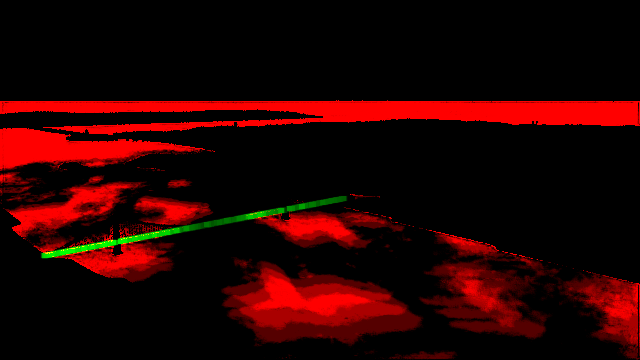
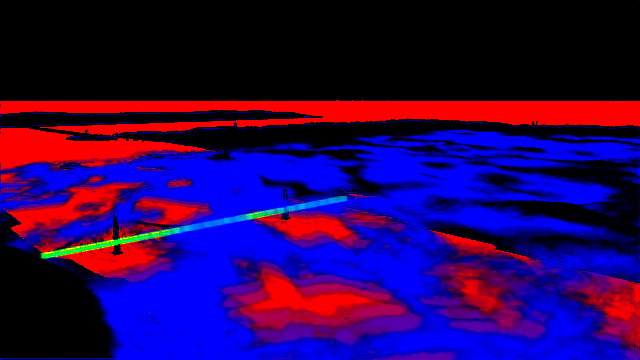
feat(ui): live fog engine, solid header, compact concierge
- liveFog.ts: soft wisps drift west to east over the held opening frame,
  domain-warped noise laid on the fog surface (perspective-correct),
  never repeating, champagne highlights and blue-grey shadows, confined
  to the fog by a new coverage channel in the shot mask. Replaces the
  3.2 s loop clips for every time of day.
- Header's dark state is 94% opaque deep navy (75% blended to grey over
  cream sections).
- Concierge launcher shrinks to its monogram past the opening; the label
  returns on hover/focus. It no longer covers section content.

diff --git a/src/components/epic/liveFog.ts b/src/components/epic/liveFog.ts
@@ -1,0 +1,162 @@
+/**
+ * Live fog over the held opening frame: soft wisps that drift west to east
+ * across the rendered fog bank, continuously and never repeating.
+ *
+ * The rendered film's fog is baked into its frames, so at rest it used to
+ * come from a 3.2 s loop clip that jumped back and drifted ~70 m/s. This
+ * draws the motion live instead: domain-warped noise laid out on the fog
+ * bank's own surface (so wisps shrink and slow toward the horizon), advected
+ * by a slow wind, lit with champagne highlights and cool blue-grey shadows,
+ * and confined to where the scene has fog (blue channel of the shot's mask,
+ * film/export_traffic_mask.py). Rendered at 1x for cost; fog is soft.
+ */
+import type { FrameRect } from './airTraffic';
+
+const VERTEX = `
+attribute vec2 aPos;
+void main() { gl_Position = vec4(aPos, 0.0, 1.0); }`;
+
+const FRAGMENT = `
+precision highp float;
+uniform sampler2D uMask;
+uniform vec2 uCanvas;
+uniform vec4 uRect;      // frame rectangle in canvas pixels (x, y from top, w, h)
+uniform float uTime, uAlpha, uHorizon, uSeed;
+uniform vec2 uWind;      // fog-surface units per second
+uniform vec3 uLight, uShade;
+
+float hash(vec2 p) { return fract(sin(dot(p, vec2(127.1, 311.7)) + uSeed) * 43758.5453); }
+float noise(vec2 p) {
+  vec2 i = floor(p), f = fract(p);
+  vec2 u = f * f * (3.0 - 2.0 * f);
+  return mix(mix(hash(i), hash(i + vec2(1.0, 0.0)), u.x), mix(hash(i + vec2(0.0, 1.0)), hash(i + vec2(1.0, 1.0)), u.x), u.y);
+}
+float fbm(vec2 p) {
+  float v = 0.0, a = 0.5;
+  for (int k = 0; k < 5; k++) { v += a * noise(p); p = p * 2.03 + vec2(17.1, 9.2); a *= 0.5; }
+  return v;
+}
+
+void main() {
+  vec2 frag = vec2(gl_FragCoord.x, uCanvas.y - gl_FragCoord.y);
+  vec2 uv = (frag - uRect.xy) / uRect.zw;
+  if (uv.x < 0.0 || uv.x > 1.0 || uv.y < 0.0 || uv.y > 1.0 || uv.y <= uHorizon + 0.01) { gl_FragColor = vec4(0.0); return; }
+  float fog = texture2D(uMask, uv).b;
+  if (fog < 0.01) { gl_FragColor = vec4(0.0); return; }
+
+  // Lay the noise on the fog bank's surface: depth grows toward the horizon.
+  float depth = 1.0 / (uv.y - uHorizon);
+  vec2 surface = vec2((uv.x - 0.5) * (uRect.z / uRect.w) * depth * 2.2, depth * 1.4);
+  vec2 drift = uWind * uTime;
+
+  // Domain warp: the wisps curl and evolve as they drift instead of sliding.
+  vec2 q = surface * 0.9 + drift;
+  vec2 warp = vec2(fbm(q + vec2(0.0, uTime * 0.012)), fbm(q + vec2(5.2, 1.3) - uTime * 0.009));
+  float n = fbm(q * 1.6 + warp * 1.8 + drift * 0.35);
+  float fine = fbm(q * 4.0 + warp * 2.5 + drift * 1.2);
+
+  // Thin streamers, denser in some places, open in others.
+  float wisp = smoothstep(0.48, 0.78, n) * (0.65 + 0.35 * fine);
+  // Lit tops toward champagne, the hollows cool blue-grey.
+  float lift = smoothstep(0.55, 0.85, n + fine * 0.25);
+  vec3 colour = mix(uShade, uLight, lift);
+  // Fade with distance so the horizon stays crisp, and near the frame edge.
+  float far = smoothstep(0.0, 0.18, uv.y - uHorizon);
+  float a = wisp * fog * far * uAlpha * 0.42;
+  gl_FragColor = vec4(colour * a, a);
+}`;
+
+export interface FogLook { light: [number, number, number]; shade: [number, number, number] }
+
+export const FOG_LOOKS: Record<'sunset' | 'day' | 'night', FogLook> = {
+  sunset: { light: [1.0, 0.88, 0.74], shade: [0.6, 0.66, 0.78] },
+  day: { light: [0.98, 0.98, 0.97], shade: [0.72, 0.77, 0.86] },
+  night: { light: [0.42, 0.47, 0.6], shade: [0.1, 0.12, 0.2] },
+};
+
+export class LiveFog {
+  private gl: WebGLRenderingContext | null;
+  private program: WebGLProgram | null = null;
+  private mask: WebGLTexture | null = null;
+  private maskReady = false;
+  private uniforms: Record<string, WebGLUniformLocation | null> = {};
+  private seed = Math.random() * 100;
+
+  constructor(private canvas: HTMLCanvasElement, maskUrl: string) {
+    this.gl = canvas.getContext('webgl', { alpha: true, premultipliedAlpha: true, antialias: false });
+    const gl = this.gl;
+    if (!gl) return;
+    const compile = (type: number, source: string) => {
+      const shader = gl.createShader(type);
+      if (!shader) return null;
+      gl.shaderSource(shader, source);
+      gl.compileShader(shader);
+      return gl.getShaderParameter(shader, gl.COMPILE_STATUS) ? shader : null;
+    };
+    const vertex = compile(gl.VERTEX_SHADER, VERTEX);
+    const fragment = compile(gl.FRAGMENT_SHADER, FRAGMENT);
+    const program = gl.createProgram();
+    if (!vertex || !fragment || !program) return;
+    gl.attachShader(program, vertex);
+    gl.attachShader(program, fragment);
+    gl.linkProgram(program);
+    if (!gl.getProgramParameter(program, gl.LINK_STATUS)) return;
+    this.program = program;
+    gl.useProgram(program);
+    const buffer = gl.createBuffer();
+    gl.bindBuffer(gl.ARRAY_BUFFER, buffer);
+    gl.bufferData(gl.ARRAY_BUFFER, new Float32Array([-1, -1, 1, -1, -1, 1, 1, 1]), gl.STATIC_DRAW);
+    const position = gl.getAttribLocation(program, 'aPos');
+    gl.enableVertexAttribArray(position);
+    gl.vertexAttribPointer(position, 2, gl.FLOAT, false, 0, 0);
+    for (const name of ['Mask', 'Canvas', 'Rect', 'Time', 'Alpha', 'Horizon', 'Seed', 'Wind', 'Light', 'Shade']) {
+      this.uniforms[name] = gl.getUniformLocation(program, `u${name}`);
+    }
+    this.mask = gl.createTexture();
+    const image = new Image();
+    image.onload = () => {
+      if (!this.mask) return;
+      gl.bindTexture(gl.TEXTURE_2D, this.mask);
+      gl.texImage2D(gl.TEXTURE_2D, 0, gl.RGBA, gl.RGBA, gl.UNSIGNED_BYTE, image);
+      gl.texParameteri(gl.TEXTURE_2D, gl.TEXTURE_MIN_FILTER, gl.LINEAR);
+      gl.texParameteri(gl.TEXTURE_2D, gl.TEXTURE_MAG_FILTER, gl.LINEAR);
+      gl.texParameteri(gl.TEXTURE_2D, gl.TEXTURE_WRAP_S, gl.CLAMP_TO_EDGE);
+      gl.texParameteri(gl.TEXTURE_2D, gl.TEXTURE_WRAP_T, gl.CLAMP_TO_EDGE);
+      this.maskReady = true;
+    };
+    image.src = maskUrl;
+  }
+
+  private visible = false;
+
+  /** rect is in the film canvas's pixels; this canvas may be lower resolution. */
+  draw(filmCanvas: HTMLCanvasElement, rect: FrameRect, seconds: number, alpha: number, horizon: number, wind: [number, number], look: FogLook) {
+    const gl = this.gl;
+    if (!gl || !this.program || !this.maskReady) return;
+    if (alpha <= 0.01) {
+      if (this.visible) { gl.clearColor(0, 0, 0, 0); gl.clear(gl.COLOR_BUFFER_BIT); this.visible = false; }
+      return;
+    }
+    // 1x CSS resolution: soft fog does not need Retina pixels.
+    const width = Math.max(2, Math.round(this.canvas.clientWidth));
+    const height = Math.max(2, Math.round(this.canvas.clientHeight));
+    if (this.canvas.width !== width || this.canvas.height !== height) { this.canvas.width = width; this.canvas.height = height; }
+    const scale = width / Math.max(1, filmCanvas.width);
+    gl.viewport(0, 0, width, height);
+    gl.useProgram(this.program);
+    gl.uniform2f(this.uniforms.Canvas, width, height);
+    gl.uniform4f(this.uniforms.Rect, rect.x * scale, rect.y * scale, rect.w * scale, rect.h * scale);
+    gl.uniform1f(this.uniforms.Time, seconds);
+    gl.uniform1f(this.uniforms.Alpha, alpha);
+    gl.uniform1f(this.uniforms.Horizon, horizon);
+    gl.uniform1f(this.uniforms.Seed, this.seed);
+    gl.uniform2f(this.uniforms.Wind, wind[0], wind[1]);
+    gl.uniform3fv(this.uniforms.Light, look.light);
+    gl.uniform3fv(this.uniforms.Shade, look.shade);
+    gl.activeTexture(gl.TEXTURE0);
+    gl.bindTexture(gl.TEXTURE_2D, this.mask);
+    gl.uniform1i(this.uniforms.Mask, 0);
+    gl.drawArrays(gl.TRIANGLE_STRIP, 0, 4);
+    this.visible = true;
+  }
+}

diff --git a/src/components/epic/Descent.tsx b/src/components/epic/Descent.tsx
@@ -6,6 +6,7 @@ import { Arrow } from '../home/Arrow';
 import { DESCENT_FRAGMENT, DESCENT_VERTEX } from './descentShader';
 import { AirTraffic } from './airTraffic';
 import { SurfaceTraffic } from './surfaceTraffic';
+import { FOG_LOOKS, LiveFog } from './liveFog';
 import { FILM_SEQUENCES, FramePlayer, focusAt } from './filmFrames';
 import { followTarget } from './scrollEasing';
 import { timeOfDay } from './timeOfDay';
@@ -36,6 +37,7 @@ export const Descent: React.FC = () => {
   const airModelRef = useRef<HTMLCanvasElement>(null);
   const surfaceRef = useRef<HTMLCanvasElement>(null);
   const surfaceModelRef = useRef<HTMLCanvasElement>(null);
+  const fogRef = useRef<HTMLCanvasElement>(null);
   const beatRefs = useRef<(HTMLDivElement | null)[]>([]);
   const altitudeRef = useRef<HTMLSpanElement>(null);
   const railRef = useRef<HTMLSpanElement>(null);
@@ -164,6 +166,8 @@ export const Descent: React.FC = () => {
     const surfaceCtx = surface?.getContext('2d') ?? null;
     const traffic = new AirTraffic(airModelRef.current ?? undefined);
     const surfaceTraffic = new SurfaceTraffic(surfaceModelRef.current ?? undefined);
+    // The fog is the same at every time of day, so one coverage map serves all.
+    const liveFog = fogRef.current ? new LiveFog(fogRef.current, '/film/traffic/mask-open-sunset.png') : null;
     const onMotionChange = () => {
       still = motionPreference.matches;
       if (still) {
@@ -198,8 +202,8 @@ export const Descent: React.FC = () => {
       // earlier scene and repeated every 3.2 s). Other phases keep theirs
       // until they are re-rendered.
       void pad; void hasCleanSunsetOpening;
-      openLoop = count && kind !== 'sunset' ? new FramePlayer(`${kind}-open`, 48) : null;
-      cityLoop = count && kind !== 'sunset' ? new FramePlayer(`${kind}-city`, 48) : null;
+      openLoop = null;
+      cityLoop = null;
     };
     choosePlayer();
     const sizeFilm = () => {
@@ -315,6 +319,24 @@ export const Descent: React.FC = () => {
           // says water or deck is visible. They are below the fog, so unlike
           // the aircraft they hide only while the camera is inside it.
           const belowFog = 1 - clamp01((story - 0.44) / 0.03) + clamp01((story - 0.555) / 0.03);
+          // Live fog over the held opening frame, fading out as the descent
+          // begins (its coverage map belongs to the opening camera).
+          const openPose = traffic.pose('open');
+          const lens = traffic.lens;
+          if (liveFog && openPose && lens && film) {
+            const tanY = Math.tan(lens.fov / 2) / lens.aspect;
+            // Where a level line of sight meets the frame: the horizon.
+            const level = [openPose.f[0], openPose.f[1], 0];
+            const len = Math.hypot(level[0], level[1]) || 1;
+            const depth = (level[0] * openPose.f[0] + level[1] * openPose.f[1]) / len;
+            const up = (level[0] * openPose.u[0] + level[1] * openPose.u[1]) / len;
+            const horizon = 0.5 - 0.5 * (up / (depth * tanY));
+            // West to east, as the camera sees it across the fog surface.
+            const rh = Math.hypot(openPose.r[0], openPose.r[1]) || 1;
+            const east = [openPose.r[0] / rh, openPose.f[0] / len];
+            const speed = 0.035;
+            liveFog.draw(film, player.lastRect, seconds, 1 - clamp01(story / 0.06), horizon, [-east[0] * speed, -east[1] * speed], FOG_LOOKS[(playerKind as 'sunset' | 'day' | 'night') in FOG_LOOKS ? (playerKind as 'sunset' | 'day' | 'night') : 'sunset']);
+          }
           if (surfaceCtx) surfaceTraffic.draw(surfaceCtx, pose, frameRect, seconds, clamp01(belowFog), shot);
         }
       } else if (gl && program) {
@@ -398,6 +420,7 @@ export const Descent: React.FC = () => {
         {/* The rendered descent, played by scroll (film/descent.blend). */}
         <canvas ref={filmRef} aria-hidden="true" className="absolute inset-0 h-full w-full opacity-0 transition-opacity duration-700 group-data-[rendered=true]/film:opacity-100" />
         {/* Independent road and water traffic over the clean review sequence. */}
+        <canvas ref={fogRef} aria-hidden="true" className="pointer-events-none absolute inset-0 h-full w-full opacity-0 transition-opacity duration-700 group-data-[rendered=true]/film:opacity-100" />
         <canvas ref={surfaceRef} aria-hidden="true" className="pointer-events-none absolute inset-0 h-full w-full opacity-0 transition-opacity duration-700 group-data-[rendered=true]/film:opacity-100" />
         <canvas ref={surfaceModelRef} aria-hidden="true" className="pointer-events-none absolute inset-0 h-full w-full opacity-0 transition-opacity duration-700 group-data-[rendered=true]/film:opacity-100" />
         {/* Live air traffic, drawn over the film in its own 3D space. */}

diff --git a/src/components/ChatInterface.tsx b/src/components/ChatInterface.tsx
@@ -43,6 +43,15 @@ export const ChatInterface: React.FC<ChatInterfaceProps> = ({
 }) => {
   const { settings: siteSettings } = useSiteSettings();
   const [isOpen, setIsOpen] = useState(false);
+  // Past the opening, the launcher shrinks to its monogram so it never sits
+  // on top of section content; the label returns on hover and focus.
+  const [compactLauncher, setCompactLauncher] = useState(false);
+  useEffect(() => {
+    const update = () => setCompactLauncher(window.scrollY > window.innerHeight * 0.6);
+    update();
+    window.addEventListener('scroll', update, { passive: true });
+    return () => window.removeEventListener('scroll', update);
+  }, []);
   const [capabilitiesVisible, setCapabilitiesVisible] = useState(false);
   const [activeTab, setActiveTab] = useState<'chat' | 'voice'>('chat');
   const [isFullScreen, setIsFullScreen] = useState(false);
@@ -882,12 +891,12 @@ export const ChatInterface: React.FC<ChatInterfaceProps> = ({
             : mobileInlineOnly
               ? 'hidden sm:inline-flex'
               : 'inline-flex'
-        } items-center gap-3 border border-white/15 bg-ca-deep/90 p-1.5 text-white shadow-[0_20px_40px_-20px_rgba(0,0,0,0.6)] backdrop-blur-md transition-colors hover:border-white/35 focus:outline-none focus-visible:ring-2 focus-visible:ring-ca-orange sm:pr-4`}
+        } group items-center gap-3 border border-white/15 bg-ca-deep/90 p-1.5 text-white shadow-[0_20px_40px_-20px_rgba(0,0,0,0.6)] backdrop-blur-md transition-colors hover:border-white/35 focus:outline-none focus-visible:ring-2 focus-visible:ring-ca-orange ${compactLauncher ? 'hover:pr-4 focus-visible:pr-4' : 'sm:pr-4'}`}
       >
         <span className="flex h-9 w-9 items-center justify-center bg-ca-navy p-1.5">
           <img src={spMonogramWhite} alt="" aria-hidden="true" className="h-full w-full object-contain" />
         </span>
-        <span className="hidden text-[14px] font-medium text-white/90 sm:inline">Talk to the Concierge</span>
+        <span className={`hidden text-[14px] font-medium text-white/90 ${compactLauncher ? 'sm:group-hover:inline sm:group-focus-visible:inline' : 'sm:inline'}`}>Talk to the Concierge</span>
       </button>
     );
   }

diff --git a/src/components/home/SiteHeader.tsx b/src/components/home/SiteHeader.tsx
@@ -45,7 +45,7 @@ export const SiteHeader: React.FC<SiteHeaderProps> = ({ nav = HOME_NAV, centered
       className={`fixed inset-x-0 top-0 z-30 transition-[background-color,box-shadow] duration-300 ${
         solid
           ? night
-            ? 'bg-[#060A1C]/75 shadow-[0_1px_0_rgba(247,245,240,0.12)] backdrop-blur-md'
+            ? 'bg-[#060A1C]/[0.94] shadow-[0_1px_0_rgba(247,245,240,0.12)] backdrop-blur-md'
             : 'bg-sp-ivory/95 shadow-[0_1px_0_rgba(13,31,78,0.1)] backdrop-blur-md'
           : 'bg-transparent'
       }`}

diff --git a/src/components/epic/airTraffic.ts b/src/components/epic/airTraffic.ts
@@ -114,6 +114,11 @@ export class AirTraffic {
     return !!this.camera;
   }
 
+  /** The film camera's field of view and aspect, for layers drawn in its space. */
+  get lens(): { fov: number; aspect: number } | null {
+    return this.camera ? { fov: this.camera.fov, aspect: this.camera.aspect } : null;
+  }
+
   pose(index: number | 'open' | 'city'): Pose | null {
     if (!this.camera) return null;
     if (index === 'open') return this.camera.open;

diff --git a/film/export_traffic_mask.py b/film/export_traffic_mask.py
@@ -59,9 +59,15 @@ for obj in bpy.data.objects:
     # Lights off; the thin haze volume would only dim every target evenly.
     if obj.type == "LIGHT" or obj.name == "Haze":
         obj.hide_render = True
+# Every surface and the sky glow pure blue, so the blue channel is the fog's
+# transmittance along each ray: where it falls, there is fog (blue = coverage
+# after inversion). Water and deck add red and green on top of the blue.
 for node in s.world.node_tree.nodes:
     if node.type == "BACKGROUND":
-        node.inputs["Strength"].default_value = 0
+        node.inputs["Color"].default_value = (0, 0, 1, 1)
+        node.inputs["Strength"].default_value = 1
+        for link in list(node.inputs["Color"].links):
+            s.world.node_tree.links.remove(link)
 # Fog as pure extinction at its real density: it hides what is behind it but
 # neither glows nor scatters the targets back into the mask.
 fog = bpy.data.materials["Marine Fog"].node_tree
@@ -84,16 +90,17 @@ def emitter(name, colour):
     return material
 
 
-TARGETS = {"Water": emitter("MaskWater", (1, 0, 0, 1)),
-           "Roadway": emitter("MaskDeck", (0, 1, 0, 1))}
+TARGETS = {"Water": emitter("MaskWater", (1, 0, 1, 1)),
+           "Roadway": emitter("MaskDeck", (0, 1, 1, 1))}
+OTHER = emitter("MaskOther", (0, 0, 1, 1))
 TARGETS["DeckSurface"] = TARGETS["Roadway"]
 for obj in bpy.data.objects:
     if obj.type not in {"MESH", "CURVE"}:
         continue
-    obj.is_holdout = obj.name not in TARGETS and obj.name != "Fog"
-    if obj.name in TARGETS:
-        for slot in obj.material_slots:
-            slot.material = TARGETS[obj.name]
+    if obj.name == "Fog":
+        continue
+    for slot in obj.material_slots:
+        slot.material = TARGETS.get(obj.name, OTHER)
 
 
 def visibility(frame, scratch):
@@ -119,12 +126,17 @@ def visibility(frame, scratch):
     for dy in (-2, -1, 0, 1, 2):
         for dx in (-2, -1, 0, 1, 2):
             grown = np.maximum(grown, np.roll(np.roll(deck, dy, 0), dx, 1))
-    return water, grown
+    # Fog coverage: transmittance below ~0.95 reads as solid fog on screen.
+    # The sky renders transparent: treat it as clear air, not as fog.
+    through = np.clip(pixels[..., 2] * alpha + (1 - alpha), 0, 1)
+    fog_edge = np.clip((0.995 - through) / 0.12, 0, 1)
+    fog = fog_edge * fog_edge * (3 - 2 * fog_edge)
+    return water, grown, fog
 
 
-def save(water, deck, path):
+def save(water, deck, fog, path):
     rgba = np.zeros((360, 640, 4), dtype=np.float32)
-    rgba[..., 0], rgba[..., 1], rgba[..., 3] = water, deck, 1
+    rgba[..., 0], rgba[..., 1], rgba[..., 2], rgba[..., 3] = water, deck, fog, 1
     image = bpy.data.images.new("TrafficMask", 640, 360, alpha=True)
     image.pixels = rgba.ravel()
     image.filepath_raw = str(path)
@@ -136,7 +148,7 @@ def save(water, deck, path):
 
 if hold != "-":
     masks = [visibility(frame, out.with_name(f".{out.stem}-{frame}.png")) for frame in frames]
-    save(sum(m[0] for m in masks) / len(masks), sum(m[1] for m in masks) / len(masks), out)
+    save(*(sum(m[k] for m in masks) / len(masks) for k in range(3)), out)
 else:
     out.mkdir(parents=True, exist_ok=True)
     for frame in frames:
